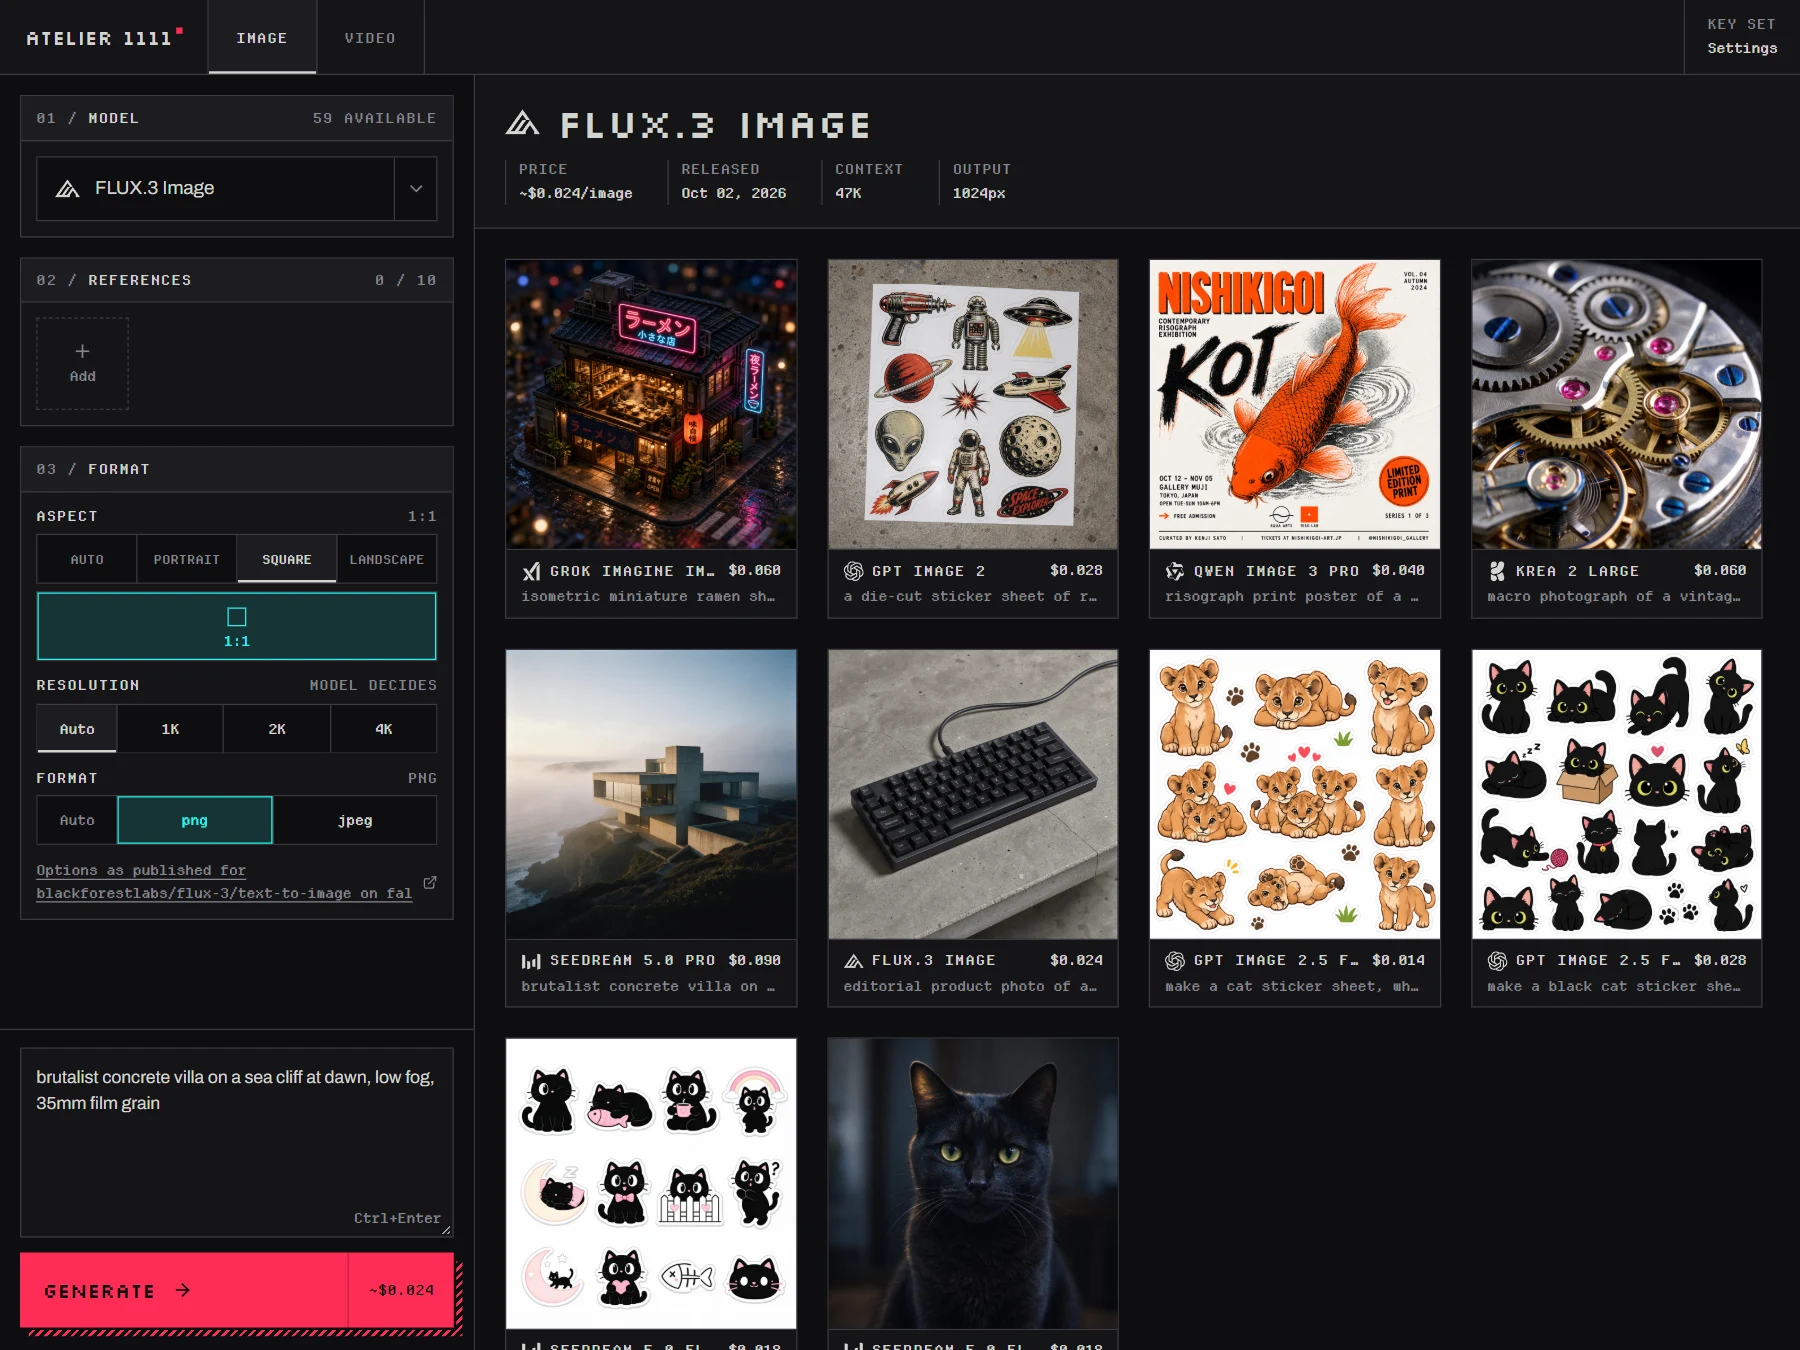
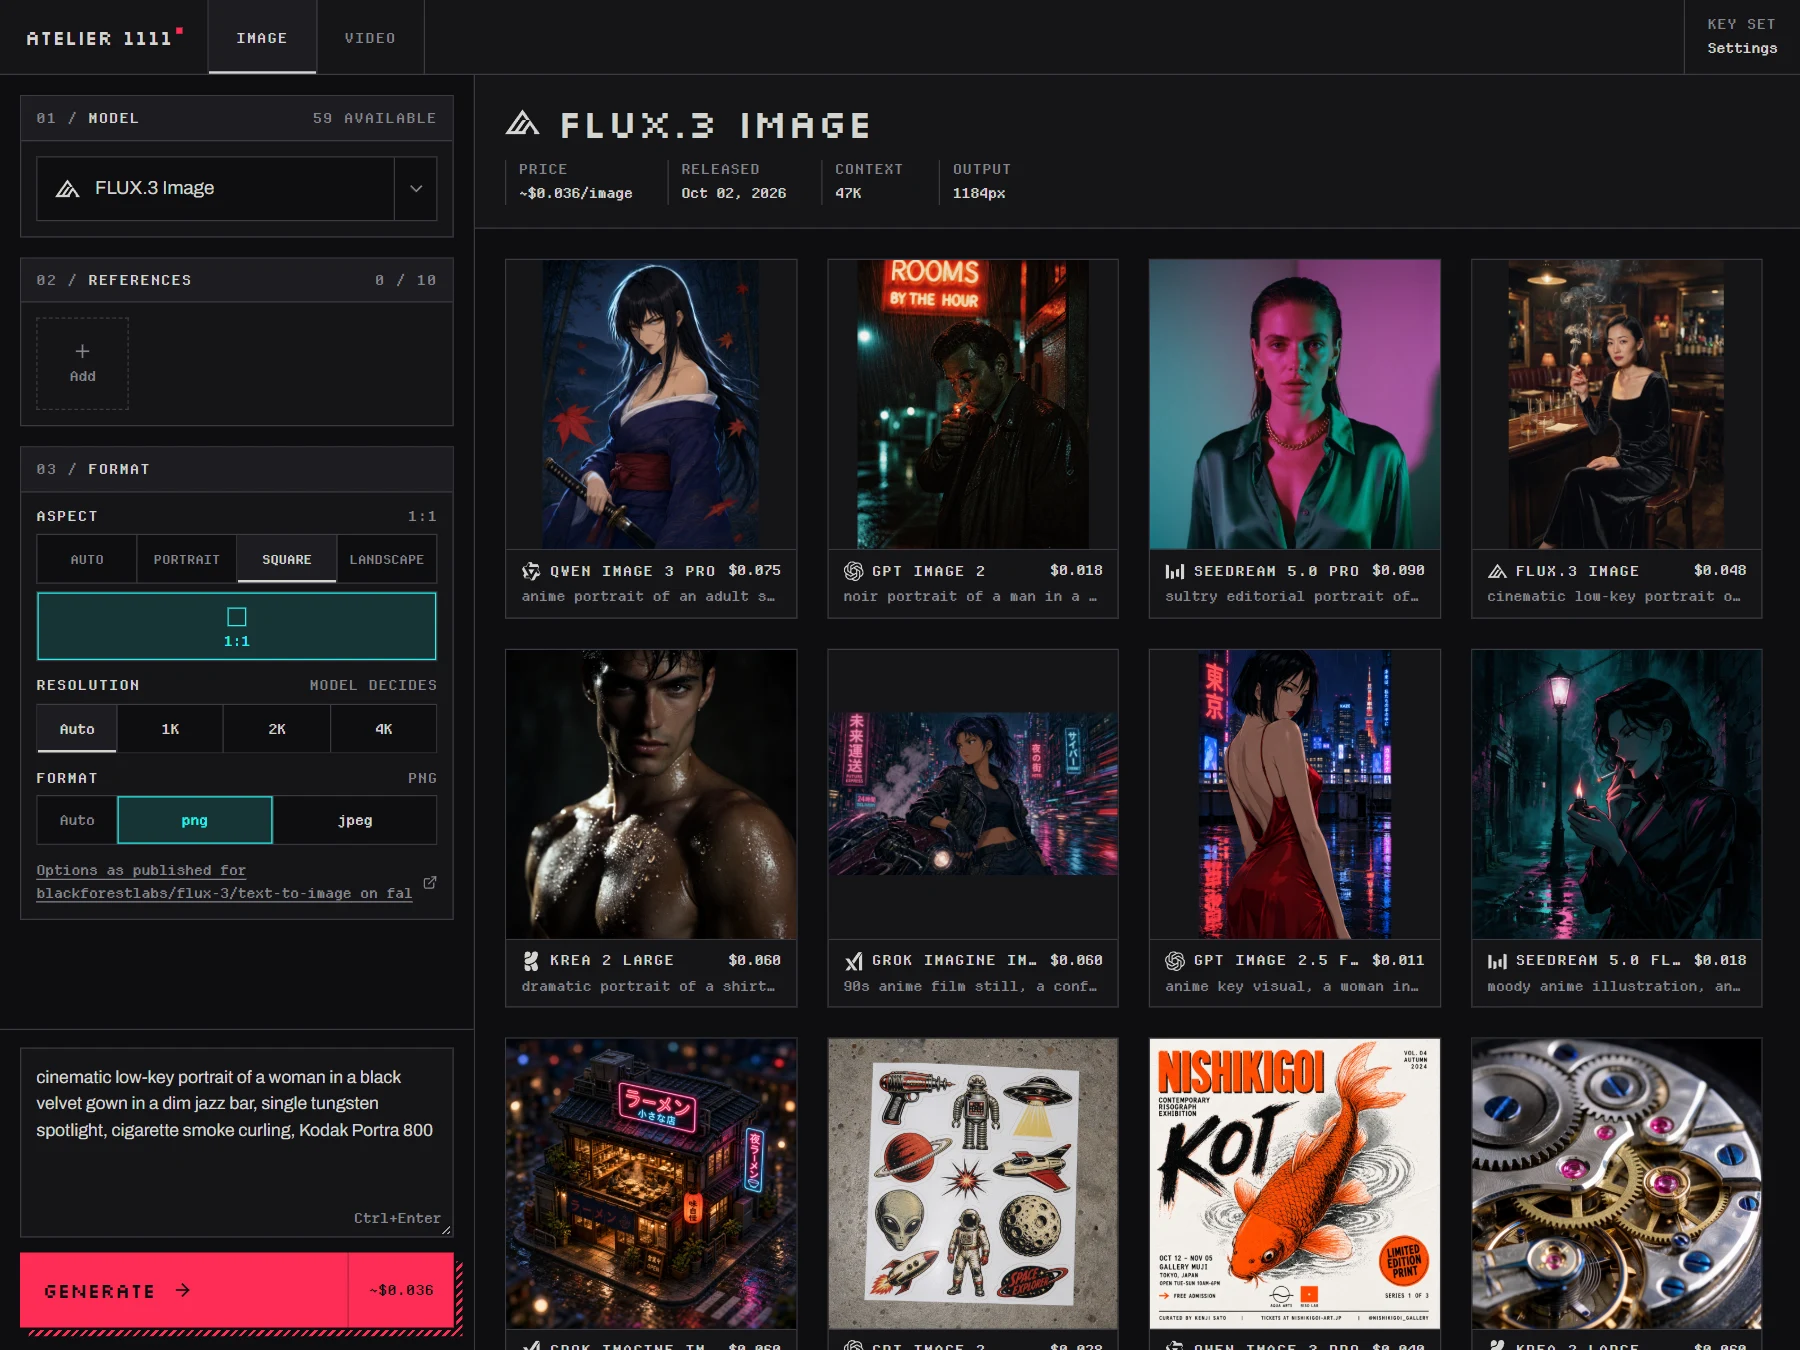
Screenshot: anime and portraits from eight models

diff --git a/README.md b/README.md
@@ -5,7 +5,7 @@ Google, xAI, fal, Replicate, Black Forest Labs, Luma, ByteDance, Prodia,
 Higgsfield or WaveSpeed. It runs on your machine and saves every result to disk
 with its prompt and, where the provider reports one, its cost.
 
-![Atelier-1111 with FLUX.3 Image selected, the composer docked under its settings, and a gallery of images from eight models](docs/screenshot.webp)
+![Atelier-1111 with FLUX.3 Image selected, the composer docked under its settings, and a gallery of anime and portrait images from eight models](docs/screenshot.webp)
 
 ## Run it
 
